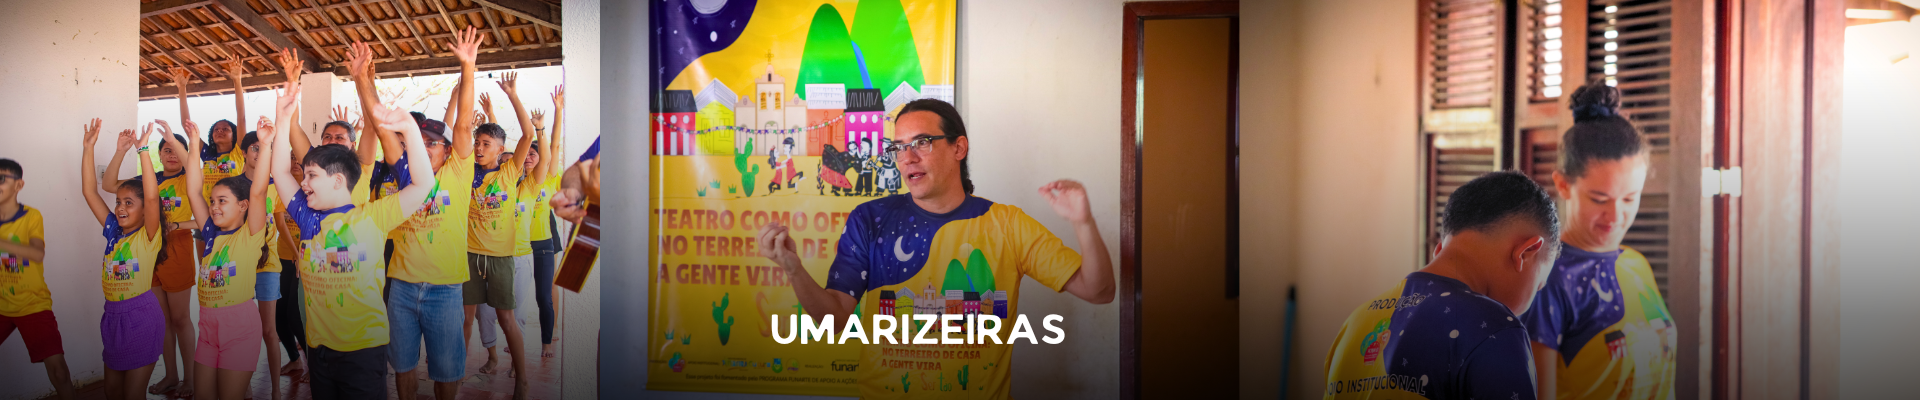
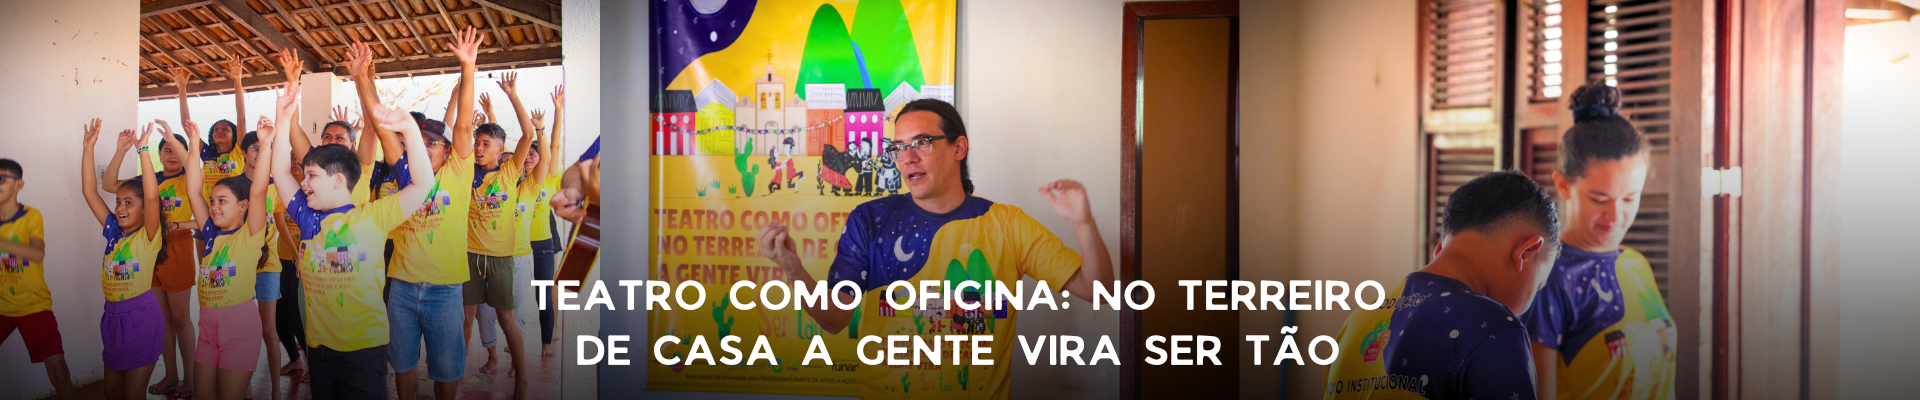
update projects and history

Changed region(s): [[0.2812, 0.69, 0.7188, 0.93]]

diff --git a/projetos.html b/projetos.html
@@ -8,10 +8,15 @@
     <!-- CSS E RESET -->
     <link rel="stylesheet" href="CSS/reset.css">
     <link rel="stylesheet" href="CSS/nav.css">
+    <link rel="stylesheet" href="CSS/history.css">
     <link rel="stylesheet" href="CSS/footer.css">
     <link rel="stylesheet" href="CSS/projects.css">
 
     <!-- FONTES E LINKS EXTERNOS -->
+    <link rel="preconnect" href="https://fonts.googleapis.com">
+    <link rel="preconnect" href="https://fonts.gstatic.com" crossorigin>
+    <link href="https://fonts.googleapis.com/css2?family=Archivo:wght@300;400&family=Oswald:wght@400;700&family=Radio+Canada:ital,wght@0,300..700;1,300..700&display=swap" rel="stylesheet">
+
     <link rel="shortcut icon" href="IMG/main-logo.png" type="image/x-icon">
     <link rel="stylesheet" href="https://fonts.googleapis.com/css2?family=Material+Symbols+Outlined:opsz,wght,FILL,GRAD@20..48,100..700,0..1,-50..200" />
 
@@ -36,6 +41,115 @@
     
     <!-- PÁGINA - CONQUISTAS -->
     <main>
+
+        <div class="carossel">
+            <div class="carossel-inner">
+                <img src="IMG/escola-rural1.png" alt="Imagem 1">
+                <img src="IMG/escola-rural2.png" alt="Imagem 2">
+                <img src="IMG/escola-rural3.png" alt="Imagem 3">
+                <img src="IMG/escola-rural4.png" alt="Imagem 4">
+                <img src="IMG/escola-rural5.png" alt="Imagem 5">
+            </div>
+            <button class="carossel-control prev" onclick="moveSlide(-1)">&#10094;</button>
+            <button class="carossel-control next" onclick="moveSlide(1)">&#10095;</button>
+            <div class="carossel-indicators"></div> <!-- MARCADORES -->
+        </div>
+
+        <div class="container">
+            <div class="text-events">
+                <h3 class="text-events">Escola Rural de Teatro dos Sertões: quando a arte transforma o cotidiano do sertão</h3>
+
+                <p>Na pequena comunidade de Alegre II, em Itatira, o teatro tem mudado rotinas, criado novos sonhos e revelado talentos. A Escola Rural de Teatro dos Sertões, em andamento no Espaço Cultural Sertão das Artes, vem se consolidando como uma das mais importantes iniciativas culturais da região.</p>
+
+                <p>Realizada pela FUNARTE e pelo Governo Federal, dentro do Programa de Ações Continuadas 2024, a escola nasceu em 2023 a partir da mobilização da Associação Comunitária Menino Jesus de Alegre II e do Grupo de Teatro Boi Catingueiro, selecionados em edital nacional. Hoje, a experiência já atinge 75 alunos em cursos de Escrita Criativa e Dramaturgia, Interpretação Teatral e, a partir de setembro, Direção e Produção Teatral.</p>
+
+                <h3>Um palco para crianças e adolescentes da zona rural</h3>
+
+                <p>O projeto é voltado para crianças e adolescentes da zona rural de Itatira, que encontram na escola uma oportunidade rara de contato direto com a arte. Mais do que aulas de teatro, o espaço se tornou um local de convivência, troca de saberes e fortalecimento da identidade cultural sertaneja.</p>
+
+                <p>“Antes eu tinha vergonha de falar em público, mas agora já consigo até subir no palco”, conta uma das alunas. Outro jovem complementa: “Na dramaturgia aprendi a escrever as histórias que ouço dos meus avós e transformá-las em peças de teatro”.</p>
+
+                <h3>Transformação sentida pela comunidade</h3>
+
+                <p>A alegria também é de quem assiste de perto essa mudança.  Renata Muniz, moradora de Alegre II, emociona-se: “Ver nossos filhos e netos no palco é uma realização. Nunca pensei que o teatro chegaria até aqui dessa forma”.</p>
+
+                <p>Para Michele Oliveira, mãe de um aluno, o impacto é familiar: “Meu filho ganhou disciplina e autoestima. Ele está mais focado nos estudos e encontrou uma nova paixão no teatro”.</p>
+
+                <h3>Compromisso e futuro</h3>
+
+                <p>Segundo Antônio Inácio, Coordenador do projeto, essa iniciativa coloca a comunidade no mapa Cultural do Ceará: “É a realização de um sonho antigo. O sertão também é lugar de arte e merece visibilidade”.</p>
+
+                <p>Lennon Lopes, produtor cultural e articulador da iniciativa, ressalta a importância da qualificação profissional: “Trazer professores renomados do teatro cearense garante formação de qualidade e uma mostra final que vai emocionar a todos”.</p>
+
+                <h3>Além da formação artística, os alunos recebem ao final dos cursos, uma bolsa de incentivo de R$ 100,00, reconhecendo seu esforço e estimulando a permanência. O projeto culminará em uma Mostra Final, onde o público poderá assistir às criações produzidas ao longo da jornada.</h3>
+            </div>
+        </div>
+
+
+        <div class="carossel">
+            <div class="carossel-inner">
+                <img src="IMG/mostra4.png" alt="Imagem 1">
+                <img src="IMG/mostra5.png" alt="Imagem 2">
+                <img src="IMG/mostra6.png" alt="Imagem 3">
+            </div>
+            <button class="carossel-control prev" onclick="moveSlide(-1)">&#10094;</button>
+            <button class="carossel-control next" onclick="moveSlide(1)">&#10095;</button>
+            <div class="carossel-indicators"></div> <!-- MARCADORES -->
+        </div>
+
+        <div class="container">
+            <div class="text-events">
+                <h3 class="text-events">Crianças protagonizam a I Mostra Regional de Cultura Popular na Infância em Itatira</h3>
+
+                <h3>Evento reuniu grupos culturais de Itatira e Canindé, com apresentações, oficinas e mais de mil pessoas alcançadas</h3>
+
+                <p>No dia 07 de janeiro de 2025, o município de Itatira foi palco da I Mostra Regional de Cultura Popular na Infância, um evento inédito que uniu tradição, brincadeira e protagonismo infantil. Com a participação de seis grupos culturais dos municípios de Itatira e Canindé, a mostra celebrou as manifestações populares vividas e reinventadas pelas crianças, marcando um momento de valorização da identidade sertaneja desde os primeiros anos de vida.</p>
+
+                <p>Realizada na comunidade de Alegre II, a mostra foi a culminância de uma série de oficinas de dança popular e circo, que aconteceram nos dias 14, 15, 21 e 28 de dezembro de 2024, com 20 crianças participantes. As formações artísticas foram conduzidas por profissionais e jovens da própria comunidade, fortalecendo a relação entre cultura, território e infância.</p>
+
+                <p>Cada grupo participante recebeu um cachê simbólico de R$ 800,00 e uma comenda de reconhecimento, reforçando o incentivo à continuidade das práticas culturais nas comunidades. Entre os destaques da mostra esteve o Reisado Infantil Boi Catingueirinho, grupo que teve figurinos e personagens fomentados pelo projeto, despertando encantamento do público presente.</p>
+
+                <p>A iniciativa também garantiu acessibilidade, com intérprete de Libras presente durante todo o evento, e foi acompanhada por forte ação de mobilização e comunicação. Por meio de redes sociais, rádios comunitárias, escolas, WhatsApp e convites impressos, o evento alcançou 730 pessoas presencialmente e um público virtual de quase 6 mil pessoas.</p>
+
+                <p>Além do espetáculo cultural, o projeto proporcionou vivências educativas e afetivas para crianças e adultos, promovendo o fortalecimento da cultura popular como ferramenta de formação, cidadania e pertencimento. Professores, artistas e famílias relataram emoção e orgulho ao verem a infância protagonizando tradições como o reisado, a ciranda, o boi e as danças do sertão.</p>
+
+                <p>A I Mostra Regional de Cultura Popular na Infância foi produzida por Antonio Inácio dos Santos, com apoio cultural da Secretaria da Cultura do Ceará, através do III Edital Cultura Infância da Lei Paulo Gustavo. Contou também com o apoio da Prefeitura Municipal de Itatira, Departamento de Cultura, Escola 13 de Maio, Associação Comunitária Menino Jesus de Alegre II e o Ponto de Cultura Boi Catingueiro.</p>
+
+                <h3>Com resultados expressivos e envolvimento comunitário, o evento reafirma a potência da arte tradicional como linguagem de inclusão e transformação social, abrindo caminho para novas edições e para o fortalecimento das infâncias culturais no sertão cearense.</h3>
+            </div>
+        </div>
+
+                <div class="carossel">
+            <div class="carossel-inner">
+                <img src="IMG/alegre1.png" alt="Imagem 1">
+                <img src="IMG/alegre2.png" alt="Imagem 2">
+                <img src="IMG/vitoria1.png" alt="Imagem 1">
+                <img src="IMG/vitoria2.png" alt="Imagem 2">
+                <img src="IMG/umarizeiras1.png" alt="Imagem 1">
+                <img src="IMG/umarizeiras2.png" alt="Imagem 2">
+            </div>
+            <button class="carossel-control prev" onclick="moveSlide(-1)">&#10094;</button>
+            <button class="carossel-control next" onclick="moveSlide(1)">&#10095;</button>
+            <div class="carossel-indicators"></div> <!-- MARCADORES -->
+        </div>
+
+        <div class="container">
+            <div class="text-events">
+                <h3 class="text-events">Teatro como Oficina: No Terreiro de Casa a Gente Vira Sertão</h3>
+                <p>A Associação Comunitária Menino Jesus de Alegre II, em Itatira, celebrou em 2024 a realização do projeto “Teatro como Oficina, no Terreiro de Casa a Gente Vira Sertão”, com apoio da Funarte, por meio do Edital Ações Continuadas para Grupos e Coletivos. A iniciativa foi desenvolvida pelo Teatro Boi Catingueiro da Comunidade de Alegre II, fortalecendo o acesso à cultura, à arte e à formação artística no sertão.</p>
+
+                <h3>Durante o ano, três cursos marcaram a trajetória do projeto, promovendo formação gratuita e incentivando a criatividade e a expressão de crianças, jovens e adultos: </h3>
+
+                <p>Curso de Teatro de Rua – realizado de junho a dezembro de 2024, no Auditório da Associação Comunitária Menino Jesus de Alegre II, sob a condução do facilitador Martonio Holanda. A oficina trouxe técnicas do teatro popular, explorando a relação entre artistas, espaço público e comunidade.</p>
+
+                <p>Curso de Circo – realizado entre agosto e dezembro de 2024, na Escola Antônio Gomes de Sousa, localizada na Fazenda Vitória. O curso foi ministrado por Gleilton Silva e levou para a comunidade a magia das artes circenses, trabalhando equilíbrio, palhaçaria e acrobacias adaptadas ao contexto local.</p>
+
+                <p>Curso de Teatro – também de agosto a dezembro de 2024, na Casa Sede do Assentamento Umarizeiras. Sob a orientação de Ricardo Bruno, os participantes tiveram contato com fundamentos da interpretação, dramaturgia e montagem cênica, resultando em processos coletivos que unem identidade e memória sertaneja.</p>
+
+                <p>Com essas ações, o projeto reafirmou o compromisso do Teatro Boi Catingueiro e da Associação Comunitária Menino Jesus de Alegre II em levar arte e formação para dentro dos territórios, valorizando o protagonismo cultural das comunidades rurais. A experiência mostrou que, no terreiro de casa, a gente não apenas constrói encontros, mas também transforma vidas, fazendo do sertão um grande palco.</p>
+            </div>
+        </div>
+
         <div class="text-services">
             <h2>Leis</h2>
         </div>
@@ -143,5 +257,6 @@
 </body>
 <script src="JS/mobile-navbar.js"></script>
 <script src="JS/toggle-card.js"></script>
+<script src="JS/image-carrosel.js"></script>
 
 </html>

diff --git a/historia.html b/historia.html
@@ -49,48 +49,6 @@
             </div>
         </div> -->
         <!-- CARROSEL DE IMAGENS -->
-        <div class="carossel">
-            <div class="carossel-inner">
-                <img src="IMG/escola-rural1.png" alt="Imagem 1">
-                <img src="IMG/escola-rural2.png" alt="Imagem 2">
-                <img src="IMG/escola-rural3.png" alt="Imagem 3">
-                <img src="IMG/escola-rural4.png" alt="Imagem 4">
-                <img src="IMG/escola-rural5.png" alt="Imagem 5">
-            </div>
-            <button class="carossel-control prev" onclick="moveSlide(-1)">&#10094;</button>
-            <button class="carossel-control next" onclick="moveSlide(1)">&#10095;</button>
-            <div class="carossel-indicators"></div> <!-- MARCADORES -->
-        </div>
-
-        <div class="container">
-            <div class="text-events">
-                <h3 class="text-events">Escola Rural de Teatro dos Sertões: quando a arte transforma o cotidiano do sertão</h3>
-
-                <p>Na pequena comunidade de Alegre II, em Itatira, o teatro tem mudado rotinas, criado novos sonhos e revelado talentos. A Escola Rural de Teatro dos Sertões, em andamento no Espaço Cultural Sertão das Artes, vem se consolidando como uma das mais importantes iniciativas culturais da região.</p>
-
-                <p>Realizada pela FUNARTE e pelo Governo Federal, dentro do Programa de Ações Continuadas 2024, a escola nasceu em 2023 a partir da mobilização da Associação Comunitária Menino Jesus de Alegre II e do Grupo de Teatro Boi Catingueiro, selecionados em edital nacional. Hoje, a experiência já atinge 75 alunos em cursos de Escrita Criativa e Dramaturgia, Interpretação Teatral e, a partir de setembro, Direção e Produção Teatral.</p>
-
-                <h3>Um palco para crianças e adolescentes da zona rural</h3>
-
-                <p>O projeto é voltado para crianças e adolescentes da zona rural de Itatira, que encontram na escola uma oportunidade rara de contato direto com a arte. Mais do que aulas de teatro, o espaço se tornou um local de convivência, troca de saberes e fortalecimento da identidade cultural sertaneja.</p>
-
-                <p>“Antes eu tinha vergonha de falar em público, mas agora já consigo até subir no palco”, conta uma das alunas. Outro jovem complementa: “Na dramaturgia aprendi a escrever as histórias que ouço dos meus avós e transformá-las em peças de teatro”.</p>
-
-                <h3>Transformação sentida pela comunidade</h3>
-
-                <p>A alegria também é de quem assiste de perto essa mudança.  Renata Muniz, moradora de Alegre II, emociona-se: “Ver nossos filhos e netos no palco é uma realização. Nunca pensei que o teatro chegaria até aqui dessa forma”.</p>
-
-                <p>Para Michele Oliveira, mãe de um aluno, o impacto é familiar: “Meu filho ganhou disciplina e autoestima. Ele está mais focado nos estudos e encontrou uma nova paixão no teatro”.</p>
-
-                <h3>Compromisso e futuro</h3>
-
-                <p>Segundo Antônio Inácio, Coordenador do projeto, essa iniciativa coloca a comunidade no mapa Cultural do Ceará: “É a realização de um sonho antigo. O sertão também é lugar de arte e merece visibilidade”.</p>
-
-                <p>Lennon Lopes, produtor cultural e articulador da iniciativa, ressalta a importância da qualificação profissional: “Trazer professores renomados do teatro cearense garante formação de qualidade e uma mostra final que vai emocionar a todos”.</p>
-
-                <h3>Além da formação artística, os alunos recebem ao final dos cursos, uma bolsa de incentivo de R$ 100,00, reconhecendo seu esforço e estimulando a permanência. O projeto culminará em uma Mostra Final, onde o público poderá assistir às criações produzidas ao longo da jornada.</h3>
-            </div>
-        </div>
 
         <div class="carossel">
             <div class="carossel-inner">
@@ -126,39 +84,6 @@
                 <p>O XVII ITAJUNINO é uma realização da Prefeitura de Itatira, com co-realização da Associação Comunitária Menino Jesus de Alegre II, e conta com o apoio do Ministério do Turismo e apoio cultural da Secretaria da Cultura do Estado do Ceará.</p>
 
                 <h3>Mais que um festival, o ITAJUNINO é um ato de resistência e celebração das raízes nordestinas, onde o sabor da história se mistura à emoção de cada apresentação. É Itatira reafirmando seu lugar no mapa da cultura cearense com arte, alegria e tradição.</h3>
-            </div>
-        </div>
-
-        <div class="carossel">
-            <div class="carossel-inner">
-                <img src="IMG/mostra4.png" alt="Imagem 1">
-                <img src="IMG/mostra5.png" alt="Imagem 2">
-                <img src="IMG/mostra6.png" alt="Imagem 3">
-            </div>
-            <button class="carossel-control prev" onclick="moveSlide(-1)">&#10094;</button>
-            <button class="carossel-control next" onclick="moveSlide(1)">&#10095;</button>
-            <div class="carossel-indicators"></div> <!-- MARCADORES -->
-        </div>
-
-        <div class="container">
-            <div class="text-events">
-                <h3 class="text-events">Crianças protagonizam a I Mostra Regional de Cultura Popular na Infância em Itatira</h3>
-
-                <h3>Evento reuniu grupos culturais de Itatira e Canindé, com apresentações, oficinas e mais de mil pessoas alcançadas</h3>
-
-                <p>No dia 07 de janeiro de 2025, o município de Itatira foi palco da I Mostra Regional de Cultura Popular na Infância, um evento inédito que uniu tradição, brincadeira e protagonismo infantil. Com a participação de seis grupos culturais dos municípios de Itatira e Canindé, a mostra celebrou as manifestações populares vividas e reinventadas pelas crianças, marcando um momento de valorização da identidade sertaneja desde os primeiros anos de vida.</p>
-
-                <p>Realizada na comunidade de Alegre II, a mostra foi a culminância de uma série de oficinas de dança popular e circo, que aconteceram nos dias 14, 15, 21 e 28 de dezembro de 2024, com 20 crianças participantes. As formações artísticas foram conduzidas por profissionais e jovens da própria comunidade, fortalecendo a relação entre cultura, território e infância.</p>
-
-                <p>Cada grupo participante recebeu um cachê simbólico de R$ 800,00 e uma comenda de reconhecimento, reforçando o incentivo à continuidade das práticas culturais nas comunidades. Entre os destaques da mostra esteve o Reisado Infantil Boi Catingueirinho, grupo que teve figurinos e personagens fomentados pelo projeto, despertando encantamento do público presente.</p>
-
-                <p>A iniciativa também garantiu acessibilidade, com intérprete de Libras presente durante todo o evento, e foi acompanhada por forte ação de mobilização e comunicação. Por meio de redes sociais, rádios comunitárias, escolas, WhatsApp e convites impressos, o evento alcançou 730 pessoas presencialmente e um público virtual de quase 6 mil pessoas.</p>
-
-                <p>Além do espetáculo cultural, o projeto proporcionou vivências educativas e afetivas para crianças e adultos, promovendo o fortalecimento da cultura popular como ferramenta de formação, cidadania e pertencimento. Professores, artistas e famílias relataram emoção e orgulho ao verem a infância protagonizando tradições como o reisado, a ciranda, o boi e as danças do sertão.</p>
-
-                <p>A I Mostra Regional de Cultura Popular na Infância foi produzida por Antonio Inácio dos Santos, com apoio cultural da Secretaria da Cultura do Ceará, através do III Edital Cultura Infância da Lei Paulo Gustavo. Contou também com o apoio da Prefeitura Municipal de Itatira, Departamento de Cultura, Escola 13 de Maio, Associação Comunitária Menino Jesus de Alegre II e o Ponto de Cultura Boi Catingueiro.</p>
-
-                <h3>Com resultados expressivos e envolvimento comunitário, o evento reafirma a potência da arte tradicional como linguagem de inclusão e transformação social, abrindo caminho para novas edições e para o fortalecimento das infâncias culturais no sertão cearense.</h3>
             </div>
         </div>
 
@@ -228,37 +153,6 @@
                 </p>
                     
                 <h3>Cultura é identidade, e nossas crianças são o futuro. Participe!</h3>
-            </div>
-        </div>
-
-        <div class="carossel">
-            <div class="carossel-inner">
-                <img src="IMG/alegre1.png" alt="Imagem 1">
-                <img src="IMG/alegre2.png" alt="Imagem 2">
-                <img src="IMG/vitoria1.png" alt="Imagem 1">
-                <img src="IMG/vitoria2.png" alt="Imagem 2">
-                <img src="IMG/umarizeiras1.png" alt="Imagem 1">
-                <img src="IMG/umarizeiras2.png" alt="Imagem 2">
-            </div>
-            <button class="carossel-control prev" onclick="moveSlide(-1)">&#10094;</button>
-            <button class="carossel-control next" onclick="moveSlide(1)">&#10095;</button>
-            <div class="carossel-indicators"></div> <!-- MARCADORES -->
-        </div>
-
-        <div class="container">
-            <div class="text-events">
-                <h3 class="text-events">Teatro como Oficina: No Terreiro de Casa a Gente Vira Sertão</h3>
-                <p>A Associação Comunitária Menino Jesus de Alegre II, em Itatira, celebrou em 2024 a realização do projeto “Teatro como Oficina, no Terreiro de Casa a Gente Vira Sertão”, com apoio da Funarte, por meio do Edital Ações Continuadas para Grupos e Coletivos. A iniciativa foi desenvolvida pelo Teatro Boi Catingueiro da Comunidade de Alegre II, fortalecendo o acesso à cultura, à arte e à formação artística no sertão.</p>
-
-                <h3>Durante o ano, três cursos marcaram a trajetória do projeto, promovendo formação gratuita e incentivando a criatividade e a expressão de crianças, jovens e adultos: </h3>
-
-                <p>Curso de Teatro de Rua – realizado de junho a dezembro de 2024, no Auditório da Associação Comunitária Menino Jesus de Alegre II, sob a condução do facilitador Martonio Holanda. A oficina trouxe técnicas do teatro popular, explorando a relação entre artistas, espaço público e comunidade.</p>
-
-                <p>Curso de Circo – realizado entre agosto e dezembro de 2024, na Escola Antônio Gomes de Sousa, localizada na Fazenda Vitória. O curso foi ministrado por Gleilton Silva e levou para a comunidade a magia das artes circenses, trabalhando equilíbrio, palhaçaria e acrobacias adaptadas ao contexto local.</p>
-
-                <p>Curso de Teatro – também de agosto a dezembro de 2024, na Casa Sede do Assentamento Umarizeiras. Sob a orientação de Ricardo Bruno, os participantes tiveram contato com fundamentos da interpretação, dramaturgia e montagem cênica, resultando em processos coletivos que unem identidade e memória sertaneja.</p>
-
-                <p>Com essas ações, o projeto reafirmou o compromisso do Teatro Boi Catingueiro e da Associação Comunitária Menino Jesus de Alegre II em levar arte e formação para dentro dos territórios, valorizando o protagonismo cultural das comunidades rurais. A experiência mostrou que, no terreiro de casa, a gente não apenas constrói encontros, mas também transforma vidas, fazendo do sertão um grande palco.</p>
             </div>
         </div>
 
